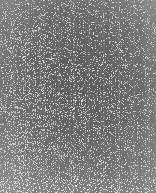
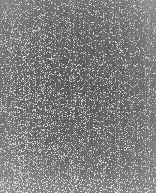
new dead pixel image, increased dead pixel counter

diff --git a/src/seekthermal_ros.cpp b/src/seekthermal_ros.cpp
@@ -280,7 +280,7 @@ void SeekthermalRos::publishingThermalImages()
 
           // find pixels that are dead by calculating the variance of each pixel
         case CALIBRATE_DEAD_PIXEL:
-          if (frame_vector.size() < 20)
+          if (frame_vector.size() < 50)
           {
             ROS_INFO_STREAM("dead pixel");
             frame_vector.push_back(*frame);
